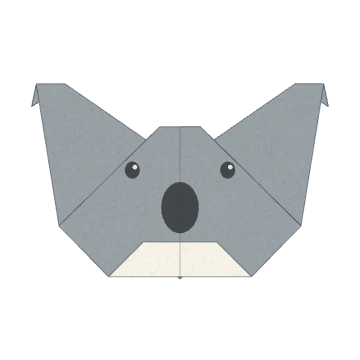
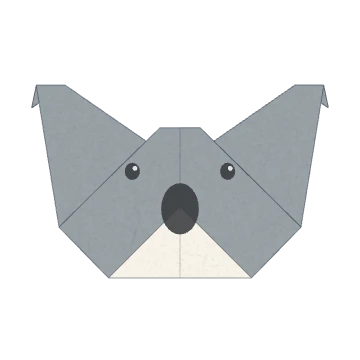
코알라 8·9단계를 도면대로: 앞 장만 올리고 뒤에 남은 끝을 뒤로 접어 하얀 입 만들기

diff --git a/src/models/koala.js b/src/models/koala.js
@@ -48,8 +48,8 @@ export const koala = {
       ],
     },
     { text: '종이를 뒤집어요.', moves: [flip], view: [0, 0.4, 1] },
-    { text: '아래 끝을 점선에서 접어 올려요.', moves: [{ line: [[-1, -0.5], [1, -0.5]], side: [0, -R], filter: (c) => !c.tags.has('top'), tag: 'chin' }, { line: [[-1, -0.5], [1, -0.5]], side: [0, -R], filter: (c) => c.tags.has('top'), toward: -1 }] },
-    { text: '올린 끝을 점선에서 뒤로 접어 하얀 입만 남겨요.', moves: [{ line: [[-1, -0.4], [1, -0.4]], side: [0, -0.32], filter: has('chin'), toward: -1 }] },
+    { text: '앞 장만 아래 끝을 점선에서 접어 올려요.', moves: [{ line: [[-1, -0.5], [1, -0.5]], side: [0, -R], filter: (c) => !c.tags.has('top'), tag: 'chin' }] },
+    { text: '뒤에 남은 아래 끝을 점선에서 뒤로 접어요. 하얀 입이 생겨요.', moves: [{ line: [[-1, -0.5], [1, -0.5]], side: [0, -R], filter: (c) => c.tags.has('top'), toward: -1 }] },
     { text: '연필로 눈과 커다란 코를 그리면 완성!', view: [0, -0.1, 1], draw: [...eye(-0.14, -0.19, 0.022), ...eye(0.14, -0.19, 0.022), { dot: [0, -0.3], r: 0.055, ry: 0.075, color: PENCIL }] },
   ],
 };

diff --git a/src/i18n/en.js b/src/i18n/en.js
@@ -242,8 +242,8 @@ export const enModels = {
       'Fold the small point between the ears down a little.',
       'Fold the ear tips down a little to round them.',
       'Turn the paper over.',
-      'Fold the bottom tip up along the dotted line.',
-      'Fold the tip behind along the dotted line, leaving only a white mouth.',
+      'Fold only the front layer\'s bottom tip up along the dotted line.',
+      'Fold the remaining bottom tip behind along the dotted line. This makes a white mouth.',
       'Draw the eyes and a big nose with a pencil, and you are done!',
     ],
   },
